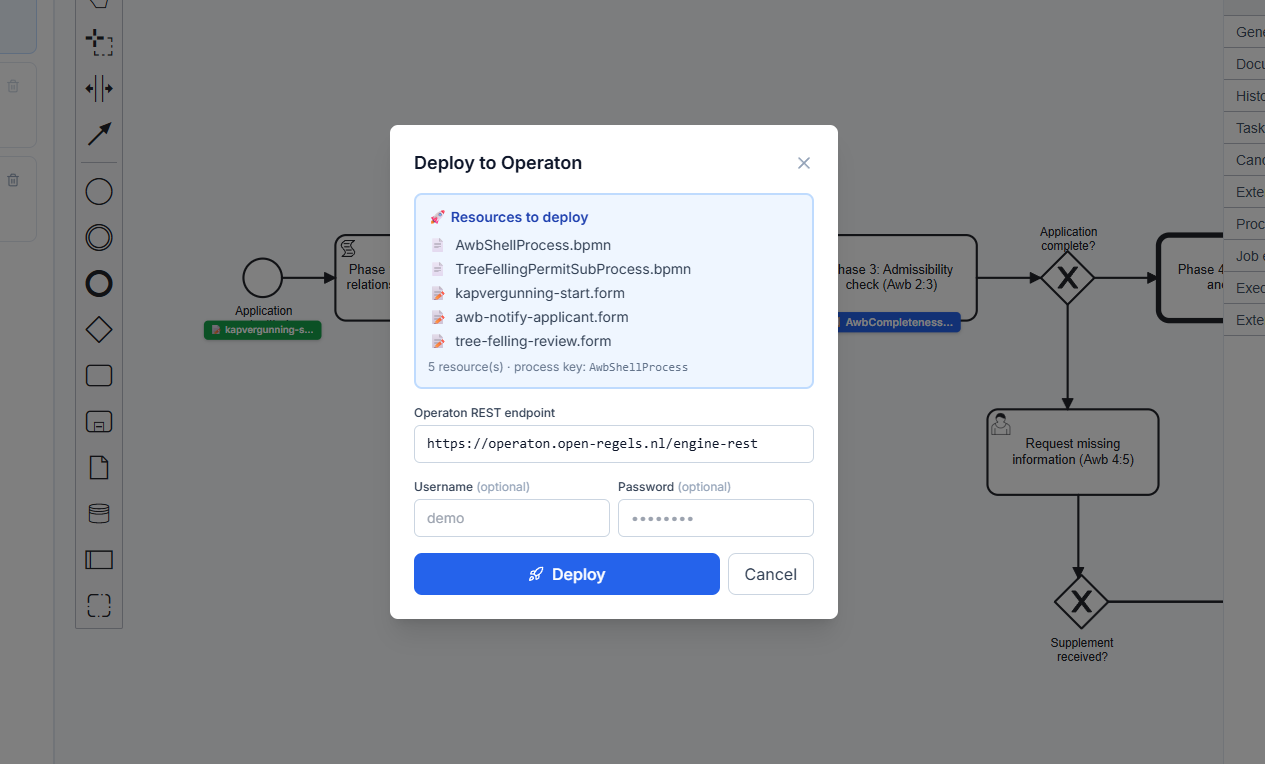
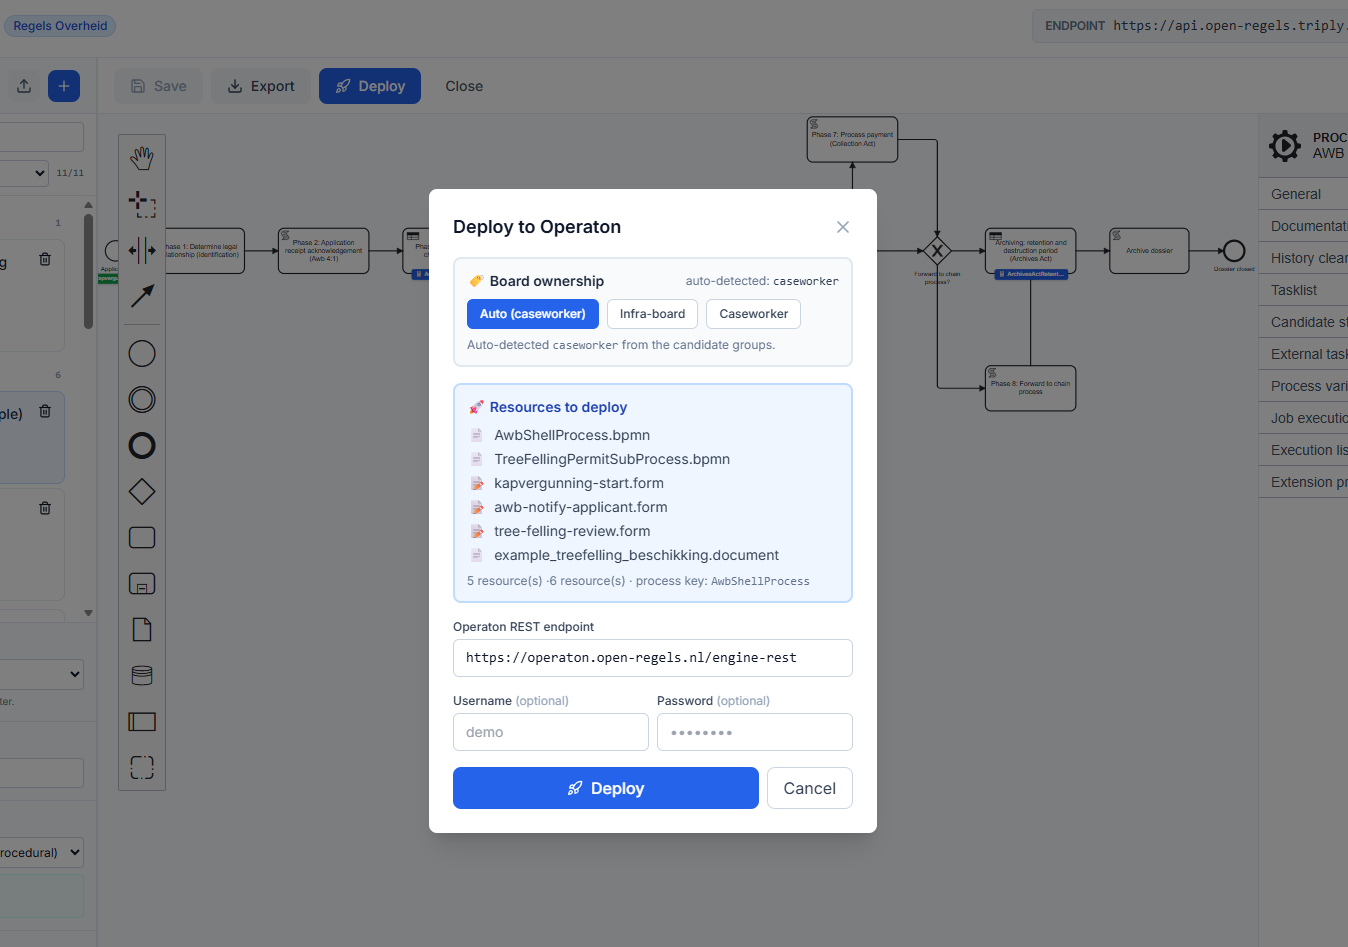
docs(lde): sync docs to v1.9.11
Sync the Linked Data Explorer documentation from v1.9.7 to v1.9.11 across the
developer, features, reference and user-guide perspectives:

- changelog-roadmap: add v1.9.8-v1.9.11 entries
- CPRMV SHACL ParameterWaardeShape / TemporalRuleShape (v1.9.8) in the SHACL
  validation reference and the validator feature page
- deploy-time board ownership (v1.9.9): required Board-ownership section,
  camunda:property boardOwner, process_definitions.board_owner + /bundles/public
- RIP Phase 1 leadRole process variable (v1.9.9)
- /v1/norms ?cprmv_version= selector (v1.9.10): changelog entry cross-linking the
  already-documented backend / api-stability pages, plus the CPSV editor selector
- boardOwner injection deploy fix + Operaton error surfacing (v1.9.11)
- re-shoot the deploy-modal screenshot for the Board-ownership section
- bump the What's New card and repo-versions.json to v1.9.11 (acc, 9bcac33)

diff --git a/docs/en/linked-data-explorer/developer/changelog-roadmap.md b/docs/en/linked-data-explorer/developer/changelog-roadmap.md
@@ -4,6 +4,52 @@
 
 ## Changelog
 
+### v1.9.11 — Board-owner deploy fix & Operaton error surfacing (July 2026)
+
+**v1.9.11 — Patch (July 2, 2026)**
+
+- Fixed `boardOwner` injection breaking BPMN deploys whose `<bpmn:process>` carries a `<bpmn:documentation>` child. `injectBoardOwner` now skips past any leading `<documentation>` element(s) before inserting or locating `extensionElements`, preserving valid BPMN schema order (documentation must precede extensionElements).
+- Deploy failures now surface Operaton's real error: the deployment service captures and logs the response body (`operatonResponse` / `operatonStatus`) instead of only the generic Axios message, and `getErrorDetails()` now checks `isAxiosError` **before** the generic `Error` branch — previously dead code, since `AxiosError extends Error` always matched the generic branch first and silently discarded `response.data`.
+
+**Files:** `packages/backend/src/services` (deployment / BPMN board-owner injection)
+
+---
+
+### v1.9.10 — `/v1/norms` CPRMV version selector (June 2026)
+
+**v1.9.10 — Feature (June 30, 2026)**
+
+- A new `?cprmv_version=` query parameter on `/v1/norms` selects which CPRMV vocabulary version to query and emit — one of `0.3.0`, `0.3.2`, or `0.4.1` (else `400 INVALID_PARAM`), defaulting to `0.3.0`. All three carry flat `cprmv:Rule` resources with identical predicates, so the rules query is one shape with the namespace swapped; `0.3.0`/`0.3.2` bind `cprmv:` to the `cprmv.open-regels` versioned-path IRI, `0.4.1` to the `standaarden.open-regels` `0.4.1#` IRI.
+- Per-ruleset metadata (`dataset_versions`) differs by version: `0.3.x` reads `cprmv:Dataset` (`dct:issued` + `dcat:version`); `0.4.1` has no `cprmv:Dataset` and reads `cprmv:RuleSet` (`cprmv:validFrom`, which doubles as the ETag / `Last-Modified` freshness signal since `0.4.1` has no `dct:issued`).
+- This is the LDE consumer side of the CPSV editor's [CPRMV version selector](../../cpsv-editor/features/import-export.md#cprmv-vocabulary-version-041-032). Full detail: [Backend — `/v1/norms`](backend.md#norms) and the [API Stability Contract](../reference/api-stability.md) (`0.3.2` / `0.4.1` are experimental, `0.3.0` is the stable default).
+
+**Files:** `packages/backend/src/services/sparql.service.ts`, `packages/backend/src/routes` (`/v1/norms`)
+
+---
+
+### v1.9.9 — Deploy-time board ownership & RIP leadRole (June 2026)
+
+**v1.9.9 — Feature (June 22, 2026)**
+
+- **Process board ownership.** The Deploy modal now requires a board owner: a new "Board ownership" section auto-detects the board from the process's candidate groups (infra/rip → Infra-board, caseworker/hr → Caseworker) and lets you override it. Deployed BPMN is stamped with a process-level `camunda:property boardOwner` (explicit choice or auto-derived). `boardOwner` is persisted on the `process_definitions` record (new `board_owner` column) and exposed via `/bundles/public`, so downstream consumers (ronl-business-api Procesbibliotheek and archive split) can read it.
+- **RIP Phase 1 leadRole.** The Map-role outputs script now sets a `leadRole` process variable, derived from the intake `projectType` (contractbeheer → `manager-pb`, otherwise `projectleider`). Distinct from the task `candidateGroups`: `leadRole` names who owns the project in the portfolio, not who can claim its tasks.
+
+**Files:** `packages/frontend/src/components` (Deploy modal), `packages/backend/src/services` (deployment, `process_definitions`, `/bundles/public`)
+
+---
+
+### v1.9.8 — CPRMV SHACL: ParameterWaarde & TemporalRule shapes (June 2026)
+
+**v1.9.8 — Feature (June 17, 2026)**
+
+- Added `cprmv:ParameterWaardeShape` targeting `cprmv:ParameterWaarde`: `skos:notation` [1,1] `xsd:string` and `skos:prefLabel` [1,n] `rdf:langString` are **mandatory**; `schema:value` [0,1] `xsd:decimal`, `schema:unitCode` [0,1] `xsd:string`, `dct:description` [0,1] `rdf:langString`, and `cprmv:validFrom`/`validUntil` [0,1] `xsd:date` are optional.
+- Added `cprmv:TemporalRuleShape` targeting `cprmv:TemporalRule`: `cprmv:validFrom` [0,1] `xsd:date`, `cprmv:validUntil` [0,1] `xsd:date`, `cprmv:confidenceLevel` [0,1] `xsd:string`, and `cprmv:isBasedOn` [0,n] `sh:class cpsv:Rule` — all optional.
+- Also adds the `skos:`, `schema:`, and `dct:` `@prefix` declarations the new shapes require; no changes to existing shapes. (The CPSV editor enforces the `ParameterWaardeShape` client-side as of its v1.10.4.)
+
+**Files:** CPRMV SHACL shapes (`cprmv` custom layer)
+
+---
+
 ### v1.9.7 — SHACL display fixes (June 2026)
 
 **v1.9.7 — Patch (June 15, 2026)**

diff --git a/docs/en/linked-data-explorer/user-guide/bpmn-modeler.md b/docs/en/linked-data-explorer/user-guide/bpmn-modeler.md
@@ -81,20 +81,23 @@ Click the **Deploy** button in the canvas toolbar. The deploy modal opens and li
   - Any subprocess BPMNs it calls via `calledElement` (resolved from your saved processes)
   - All `.form` files whose IDs match `camunda:formRef` references in the bundle
   - All `.document` files whose IDs match `ronl:documentRef` references in the bundle
- 
+
+The modal also has a required **Board ownership** section (v1.9.9). It auto-detects the owning board from the process's candidate groups — infra/rip groups → **Infra-board**, caseworker/hr groups → **Caseworker** — and lets you override the choice. The selected board is stamped onto the deployed BPMN as a process-level `camunda:property boardOwner`, persisted with the process, and exposed via `/bundles/public` so downstream consumers (the ronl-business-api Procesbibliotheek and archive split) can read which board owns the process.
+
 !!! note "DMNs are not part of the deploy bundle"
     Decision models referenced via `camunda:decisionRef` on `BusinessRuleTask` elements are **not** included in this deployment. DMNs reach Operaton through a separate path: they are published to TriplyDB by the [CPSV Editor](../../cpsv-editor/index.md) and deployed to Operaton from there. The BPMN process resolves `camunda:decisionRef` at runtime against whatever is already deployed — as long as the DMN key matches, no additional action is needed here.
  
 <figure markdown style="width:100%; margin:0;">
-  ![Screenshot: Deploy modal showing three sections — BPMN file, subprocess BPMNs, and form files — with the Operaton endpoint field pre-filled and a Deploy button at the bottom](../../assets/screenshots/linked-data-explorer-bpmn-deploy-modal.png)
-  <figcaption>Deploy modal showing the complete bundle before committing to Operaton</figcaption>
+  ![Screenshot: Deploy modal showing the bundle sections — BPMN file, subprocess BPMNs, form files — plus the required Board ownership section with the auto-detected board and an override control, the Operaton endpoint field pre-filled and a Deploy button at the bottom](../../assets/screenshots/linked-data-explorer-bpmn-deploy-modal.png)
+  <figcaption>Deploy modal showing the complete bundle and the Board ownership section before committing to Operaton</figcaption>
 </figure>
 
 1. Review the resource list. If a referenced form ID is shown as unmatched, open the Form Editor and save a form with that ID before deploying.
-2. Confirm or edit the **Operaton endpoint** URL. It is pre-filled from the environment configuration.
-3. If your Operaton instance requires authentication, enter the **Username** and **Password**.
-4. Click **Deploy**. All resources are sent in one multipart request.
-5. On success, a deployment ID is shown and the Deploy button is disabled to prevent accidental re-deploy.
+2. Check the **Board ownership** section — accept the auto-detected board or override it. A board owner is required to deploy.
+3. Confirm or edit the **Operaton endpoint** URL. It is pre-filled from the environment configuration.
+4. If your Operaton instance requires authentication, enter the **Username** and **Password**.
+5. Click **Deploy**. All resources are sent in one multipart request.
+6. On success, a deployment ID is shown and the Deploy button is disabled to prevent accidental re-deploy.
 
 Because the BPMN and all its forms land in the same Operaton deployment, `camunda:formRef` resolves correctly at runtime with no additional steps.
 

diff --git a/docs/en/linked-data-explorer/reference/shacl-validation-reference.md b/docs/en/linked-data-explorer/reference/shacl-validation-reference.md
@@ -88,6 +88,17 @@ These shapes prefer `sh:uniqueLang true` over `sh:maxCount 1` for human-readable
 
 Added in v1.9.5. The CPRMV SHACL shapes, vendored into `packages/backend/shapes/cprmv/0.4.1/cprmv.shacl.ttl`, validate the CPRMV rule-management model — `cprmv:RuleSet`, `cprmv:Rule`, and `cprmv:RuleMethod` and their required properties. This is the same shape set the CPRMV API and CPSV Editor validate against, so a file that passes here is conformant for the rule-management vocabulary independently of its CPSV-AP service metadata. A layer with no shape files present reports **Not loaded** rather than a green check.
 
+### Parameter and temporal-rule shapes (v1.9.8)
+
+Two shapes were added to the CPRMV layer, extending validation beyond the ruleset model:
+
+| Shape | Target class | Constraints |
+|---|---|---|
+| `cprmv:ParameterWaardeShape` | `cprmv:ParameterWaarde` | **Required:** `skos:notation` [1,1] `xsd:string`, `skos:prefLabel` [1,n] `rdf:langString`. **Optional:** `schema:value` [0,1] `xsd:decimal`, `schema:unitCode` [0,1] `xsd:string`, `dct:description` [0,1] `rdf:langString`, `cprmv:validFrom`/`cprmv:validUntil` [0,1] `xsd:date`. |
+| `cprmv:TemporalRuleShape` | `cprmv:TemporalRule` | **All optional:** `cprmv:validFrom` [0,1] `xsd:date`, `cprmv:validUntil` [0,1] `xsd:date`, `cprmv:confidenceLevel` [0,1] `xsd:string`, `cprmv:isBasedOn` [0,n] `sh:class cpsv:Rule`. |
+
+The change also adds the `skos:`, `schema:`, and `dct:` prefix declarations these shapes require; existing shapes are unchanged. The mandatory `skos:notation`/`skos:prefLabel` on `ParameterWaarde` is the same constraint the [CPSV Editor enforces client-side](../../cpsv-editor/reference/namespace-property-reference.md#parameter-validation-v1104) (from its v1.10.4), so a parameter that passes in the editor also passes here.
+
 ---
 
 ## Constraint codes

diff --git a/docs/en/linked-data-explorer/features/bpmn-modeler.md b/docs/en/linked-data-explorer/features/bpmn-modeler.md
@@ -160,12 +160,16 @@ All resources are sent in a single multipart `POST` to Operaton. Because the BPM
 
 The modal provides:
 
+- **Board ownership** *(required, v1.9.9)* — the owning board, auto-detected from the process's candidate groups (infra/rip → Infra-board, caseworker/hr → Caseworker) and overridable. The choice is stamped onto the deployed BPMN as a process-level `camunda:property boardOwner`, persisted on the `process_definitions` record (`board_owner` column), and exposed via `/bundles/public` for downstream consumers (ronl-business-api Procesbibliotheek and archive split)
 - **Operaton endpoint** — pre-filled from `VITE_OPERATON_BASE_URL`, editable per deployment
 - **Username / Password** — optional HTTP Basic Auth for instances that require it
 - **Resource list** — shows exactly what will be included before you commit
 - **Deploy button** — disabled after a successful deployment to prevent accidental re-deploy
 
 If a `camunda:formRef` references a form ID that is not found in `localStorage`, it is listed as an unmatched reference. The deployment still proceeds, but that form will not resolve at runtime.
+
+!!! note "Board-owner injection preserves BPMN schema order (v1.9.11)"
+    When a `<bpmn:process>` already carries a `<bpmn:documentation>` child, the `boardOwner` property is inserted **after** it — `injectBoardOwner` skips past any leading `<documentation>` element(s) before locating or creating `extensionElements`, so the resulting XML stays schema-valid (documentation must precede extensionElements). Deploy failures also now surface Operaton's actual response body rather than a generic Axios message.
 
 ---
 

diff --git a/screenshot-manifest/linked-data-explorer-screenshots-todo.md b/screenshot-manifest/linked-data-explorer-screenshots-todo.md
@@ -1,0 +1,29 @@
+# Linked Data Explorer — screenshots to capture (v1.9.7 → v1.9.11 sync)
+
+Generated by `/iou-document-patch` on 2026-07-08 for the documentation sync from
+Linked Data Explorer **v1.9.7** to **v1.9.11**.
+
+Real screenshot files live in **`docs/assets/screenshots/`** (language-neutral,
+served at the site root). Docs reference them as
+`../../assets/screenshots/<file>` inside a `<figure markdown>` block. Capture
+each image below at the same framing/width as the existing set and drop it in
+that folder — the doc references are already in place.
+
+Legend: **NEW** = no file exists yet · **REPLACE** = file exists but now shows
+stale UI.
+
+| # | Status | File | Embedding page(s) | What it must show | Trigger |
+|---|---|---|---|---|---|
+| 1 | **REPLACE** | `linked-data-explorer-bpmn-deploy-modal.png` | `user-guide/bpmn-modeler.md`, `features/bpmn-modeler.md` | The deploy modal now including the required **Board ownership** section — the auto-detected board with an override control — above the Operaton endpoint field | v1.9.9 |
+
+## Notes
+
+- The gap's other changes are non-visual: v1.9.8 is CPRMV SHACL shapes, v1.9.10
+  is the `/v1/norms ?cprmv_version=` API selector, and v1.9.11 is a deploy
+  bug-fix — none change a documented screen, so only the deploy modal needs a
+  re-shot.
+- v1.9.10 was already documented before this sync (`developer/backend.md`,
+  `reference/api-stability.md`); this run only added its changelog entry and
+  cross-links, so it introduces no new figures.
+- No NL screenshots are needed — the NL LDE pages are placeholders and do not
+  embed screenshots.

diff --git a/docs/en/index.md b/docs/en/index.md
@@ -38,13 +38,13 @@ Welcome to the comprehensive documentation for the IOU Architecture Framework an
 
     [:octicons-arrow-right-24: Full changelog](cpsv-editor/developer/changelog-roadmap.md)
 
--   **🔍 Linked Data Explorer — v1.9.7** · *June 2026*
+-   **🔍 Linked Data Explorer — v1.9.11** · *July 2026*
 
     ---
 
-    **DSO rule extraction & three-layer SHACL validation**
+    **Board-owner deploys & a negotiable `/v1/norms` CPRMV version**
 
-    The DSO Explorer now extracts an activity's *toepasbare regels* into deploy-ready LDE assets — a normalized DMN (deploys & evaluates on Operaton) or a form-js scaffold imported straight into the Form Editor — and can hand a DMN off to the CPSV Editor for publishing. The SHACL Validator gained a third **CPRMV 0.4.1** layer alongside CPSV-AP 3.2.0 and RONL Custom, and the ChainBuilder/`/v1/dmns` now discover DMNs under both the 0.3.0 and 0.4.1 CPRMV namespaces.
+    The BPMN deploy modal now requires a [board owner](linked-data-explorer/user-guide/bpmn-modeler.md#deploying-to-operaton) — auto-detected from candidate groups, stamped as `camunda:property boardOwner`, and exposed via `/bundles/public`. The [`/v1/norms`](linked-data-explorer/developer/backend.md#norms) endpoint gained a `?cprmv_version=` selector (`0.3.0` default, `0.3.2`/`0.4.1` experimental) matching the CPSV Editor's export targets, and the CPRMV SHACL layer added the `ParameterWaarde`/`TemporalRule` shapes.
 
     [:octicons-arrow-right-24: Full changelog](linked-data-explorer/developer/changelog-roadmap.md)
 

diff --git a/docs/en/linked-data-explorer/features/shacl-validator.md b/docs/en/linked-data-explorer/features/shacl-validator.md
@@ -42,7 +42,7 @@ Results are grouped into three layers (v1.9.5 added the CPRMV layer). Each layer
 | Layer | Source | Covers |
 |---|---|---|
 | CPSV-AP 3.2.0 | Canonical SEMIC shapes, vendored | The full CPSV-AP model — `PublicService`, `Rule`, `PublicOrganisation`, `ContactPoint`, `Channel`, `Address`, and related classes (32 shapes). Enforces required properties, datatypes, and class constraints. |
-| CPRMV 0.4.1 | CPRMV SHACL shapes (`shapes/cprmv/0.4.1/cprmv.shacl.ttl`) | The CPRMV rule-management model — `RuleSet`, `Rule`, `RuleMethod` and their required properties. Added in v1.9.5. |
+| CPRMV 0.4.1 | CPRMV SHACL shapes (`shapes/cprmv/0.4.1/cprmv.shacl.ttl`) | The CPRMV rule-management model — `RuleSet`, `Rule`, `RuleMethod` and their required properties. Added in v1.9.5; v1.9.8 added `ParameterWaardeShape` (mandatory `skos:notation`/`skos:prefLabel`) and `TemporalRuleShape`. See the [SHACL Validation Reference](../reference/shacl-validation-reference.md#parameter-and-temporal-rule-shapes-v198). |
 | RONL Custom | RONL-authored shapes | RONL publishing invariants on top of CPSV-AP — at most one `foaf:homepage` / `dct:identifier` / `cv:spatial` per organisation, and at most one `dct:title` / `dct:description` per language on a rule. |
 
 A file is **valid** when no layer produces an error. Warnings and informational messages are advisory.

diff --git a/docs/en/linked-data-explorer/developer/backend.md b/docs/en/linked-data-explorer/developer/backend.md
@@ -414,6 +414,8 @@ src/db/
 └── migrate.ts    — idempotent DDL: process_definitions, form_schemas, document_templates
 ```
 
+As of v1.9.9, `process_definitions` carries a `board_owner` column that records the owning board chosen (or auto-derived from candidate groups) at deploy time. It is set from the deployed BPMN's process-level `camunda:property boardOwner` and surfaced through `/bundles/public`, so downstream consumers (the ronl-business-api Procesbibliotheek and archive split) can group processes by board.
+
 See [PostgreSQL Deployment](deployment-postgresql.md) for Azure provisioning.
 
 ---

diff --git a/docs/en/linked-data-explorer/features/rip-phase1-bundle.md b/docs/en/linked-data-explorer/features/rip-phase1-bundle.md
@@ -105,6 +105,8 @@ The process is designed to be started from the Human Tasks interface in MijnOmge
 !!! note
     `candidateGroups` is set to `infra-projectteam` for all tasks by the DMN. Any user with this group membership can claim tasks.
 
+As of v1.9.9, the Map-role outputs script also sets a `leadRole` process variable, derived from the intake `projectType` (`contractbeheer` → `manager-pb`, otherwise `projectleider`). `leadRole` is distinct from the task `candidateGroups`: it names who owns the project in the portfolio, not who can claim its tasks.
+
 ---
 
 ## eDOCS integration
